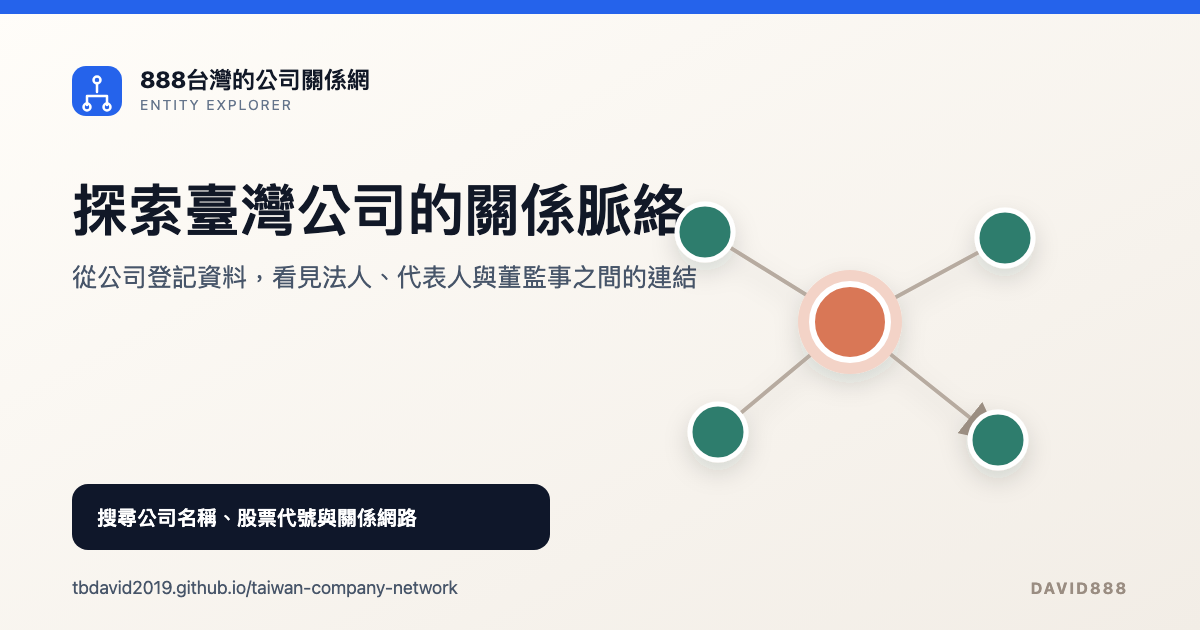
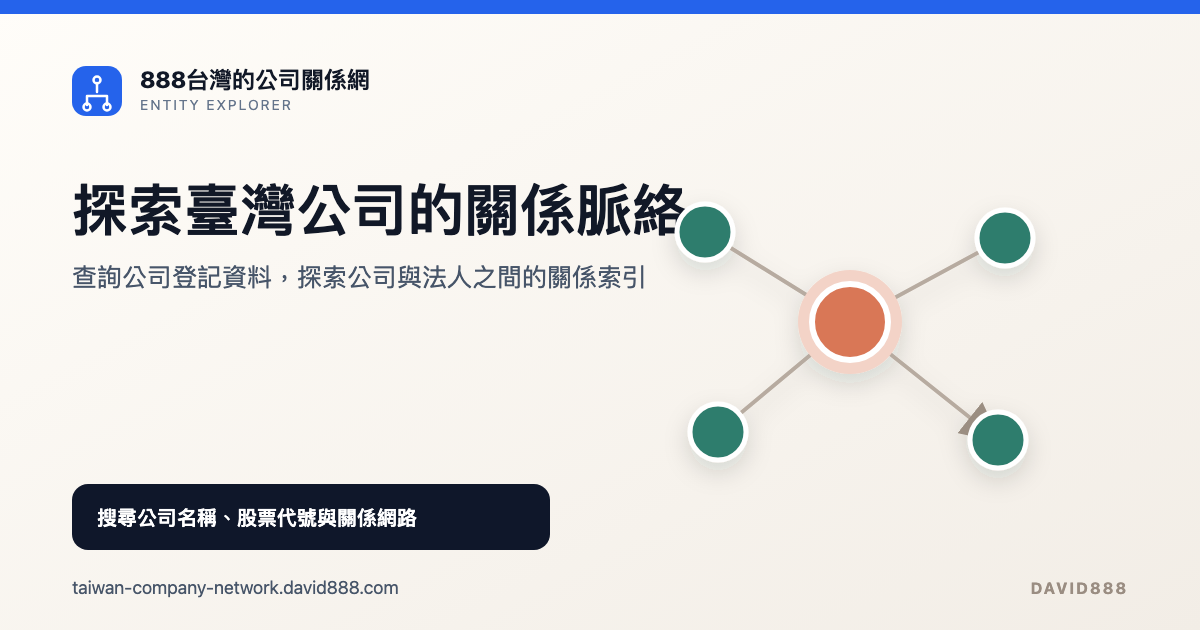
feat: add graph image sharing

Changed region(s): [[0.0617, 0.4222, 0.5858, 0.4825], [0.0617, 0.9048, 0.37, 0.9651]]

diff --git a/src/views/graph.jsx b/src/views/graph.jsx
@@ -1,5 +1,6 @@
 import React, { useCallback, useEffect, useMemo, useRef, useState } from "react";
 import { Graph } from "@antv/g6";
+import { toBlob } from "html-to-image";
 import { useLocation, useNavigate, useSearchParams } from "react-router-dom";
 import {
   ArrowDownLeft,
@@ -13,6 +14,7 @@ import {
   Network,
   Plus,
   RefreshCw,
+  Share2,
   UserRound,
 } from "lucide-react";
 
@@ -22,6 +24,7 @@ import { Button } from "@/components/ui/button";
 import { Card, CardContent, CardHeader, CardTitle } from "@/components/ui/card";
 import { Separator } from "@/components/ui/separator";
 import { loadCompanyDetails, loadGraph } from "@/lib/companyData";
+import { graphShareFileName } from "@/lib/graphShare";
 import { calculatePinchViewport, clampZoom, companyPageTitle } from "@/lib/graphViewport";
 import { useCompany } from "context/CompanyContext";
 
@@ -364,6 +367,8 @@ function NetworkGraph() {
   const [searchParams] = useSearchParams();
   const { rememberCompany, setCompanyDetails, setSelectedCompany } = useCompany();
   const graphContainerRef = useRef(null);
+  const graphShareRef = useRef(null);
+  const preparedShareRef = useRef(null);
   const graphRef = useRef(null);
   const [network, setNetwork] = useState({});
   const [details, setDetails] = useState({});
@@ -375,6 +380,8 @@ function NetworkGraph() {
   const [localZoom, setLocalZoom] = useState(1);
   const [localMapResetKey, setLocalMapResetKey] = useState(0);
   const [isLoading, setIsLoading] = useState(true);
+  const [isSharing, setIsSharing] = useState(false);
+  const [shareMessage, setShareMessage] = useState("");
   const [error, setError] = useState("");
   const requestedCompany = searchParams.get("company") || location.state?.company;
 
@@ -403,6 +410,8 @@ function NetworkGraph() {
     setExpandedNodes(new Set());
     setLocalZoom(1);
     setActiveNode("");
+    preparedShareRef.current = null;
+    setShareMessage("");
   }, [company, mode]);
 
   useEffect(() => {
@@ -420,6 +429,12 @@ function NetworkGraph() {
     () => makeGraphData(network, company, mode, details, expandedNodes),
     [company, details, expandedNodes, mode, network],
   );
+
+  useEffect(() => {
+    preparedShareRef.current = null;
+    setShareMessage("");
+  }, [graphData]);
+
   const currentView = VIEW_OPTIONS.find((option) => option.id === mode);
   const useLocalRelationshipMap = graphData.nodes.length <= 80;
   const toggleExpandedNode = useCallback((id) => {
@@ -531,15 +546,86 @@ function NetworkGraph() {
     requestAnimationFrame(() => graphRef.current?.fitView({ padding: 72 }, { duration: 220 }));
   };
 
+  const downloadGraphImage = (blob) => {
+    const imageUrl = URL.createObjectURL(blob);
+    const link = document.createElement("a");
+    link.href = imageUrl;
+    link.download = graphShareFileName(company);
+    document.body.appendChild(link);
+    link.click();
+    link.remove();
+    URL.revokeObjectURL(imageUrl);
+    setShareMessage("關係圖 PNG 已下載。");
+  };
+
+  const sharePreparedImage = async ({ blob, file }) => {
+    const shareData = {
+      files: [file],
+      title: `${company} - 888台灣的公司關係網`,
+      text: `${company} 的公司與法人關係索引\n${window.location.href}`,
+    };
+
+    if (navigator.share && navigator.canShare?.({ files: [file] })) {
+      await navigator.share(shareData);
+      setShareMessage("已開啟系統分享選單。");
+      return;
+    }
+
+    downloadGraphImage(blob);
+  };
+
+  const shareGraph = async () => {
+    if (isSharing) return;
+    setShareMessage("");
+
+    if (preparedShareRef.current) {
+      try {
+        await sharePreparedImage(preparedShareRef.current);
+      } catch (shareError) {
+        if (shareError?.name !== "AbortError") setShareMessage("分享未開啟；請再按一次分享，或改用下載的 PNG。");
+      }
+      return;
+    }
+
+    if (!graphShareRef.current) return;
+    setIsSharing(true);
+    setHoveredNode("");
+
+    try {
+      await document.fonts?.ready;
+      const blob = await toBlob(graphShareRef.current, {
+        backgroundColor: "#faf8f5",
+        cacheBust: true,
+        filter: (node) => node?.dataset?.shareExclude !== "true",
+        pixelRatio: Math.min(2, Math.max(1.5, window.devicePixelRatio || 1)),
+      });
+      if (!blob) throw new Error("Unable to create graph image.");
+
+      const file = new File([blob], graphShareFileName(company), { type: "image/png" });
+      preparedShareRef.current = { blob, file };
+      await sharePreparedImage({ blob, file });
+    } catch (shareError) {
+      if (shareError?.name === "AbortError") return;
+      if (preparedShareRef.current && shareError?.name === "NotAllowedError") {
+        setShareMessage("圖片已產生，請再按一次「分享圖片」開啟系統分享選單。");
+      } else {
+        setShareMessage("無法產生分享圖片，請稍後再試。");
+      }
+    } finally {
+      setIsSharing(false);
+    }
+  };
+
   if (isLoading) return <div className="flex min-h-[70vh] flex-col items-center justify-center gap-3 text-muted-foreground"><LoaderCircle className="size-8 animate-spin text-primary" /><p className="text-sm">Loading relationship data…</p></div>;
   if (error) return <div className="rounded-xl border border-destructive/20 bg-destructive/5 p-6 text-sm text-destructive">{error}</div>;
 
   return (
     <div className="fade-in">
-      <Header actions={<Button onClick={() => navigate("/index")} variant="outline"><ArrowLeft />Back to index</Button>} title={company || "Relationship graph"} />
+      <Header actions={<div className="flex flex-wrap gap-2"><Button onClick={() => navigate("/index")} variant="outline"><ArrowLeft />Back to index</Button><Button disabled={isSharing} onClick={shareGraph}><Share2 />{isSharing ? "產生圖片…" : preparedShareRef.current ? "分享圖片" : "分享"}</Button></div>} title={company || "Relationship graph"} />
+      {shareMessage && <p aria-live="polite" className="mb-3 text-right text-xs text-muted-foreground">{shareMessage}</p>}
       <div className="grid gap-5 xl:grid-cols-[minmax(0,1fr)_20rem]">
-        <Card className="min-w-0 overflow-hidden">
-          <CardHeader className="border-b border-border/70 bg-muted/20 px-5 py-4 sm:px-6"><div className="mb-4 flex flex-wrap gap-2">{VIEW_OPTIONS.map((option) => { const Icon = option.icon; const active = option.id === mode; return <Button className="gap-2" key={option.id} onClick={() => setMode(option.id)} size="sm" variant={active ? "default" : "outline"}><Icon className="size-3.5" />{option.label}</Button>; })}</div><div className="flex flex-wrap items-center justify-between gap-3"><div><CardTitle className="flex items-center gap-2 text-base"><Network className="size-4 text-primary" />{currentView?.label}</CardTitle><p className="mt-1 text-xs text-muted-foreground">{graphData.nodes.length} nodes · {graphData.edges.length} links</p></div><Badge className="hidden sm:inline-flex" variant="outline">{currentView?.hint}</Badge></div></CardHeader>
+        <Card className="min-w-0 overflow-hidden" ref={graphShareRef}>
+          <CardHeader className="border-b border-border/70 bg-muted/20 px-5 py-4 sm:px-6"><div className="mb-4 flex flex-wrap gap-2" data-share-exclude="true">{VIEW_OPTIONS.map((option) => { const Icon = option.icon; const active = option.id === mode; return <Button className="gap-2" key={option.id} onClick={() => setMode(option.id)} size="sm" variant={active ? "default" : "outline"}><Icon className="size-3.5" />{option.label}</Button>; })}</div><div className="flex flex-wrap items-center justify-between gap-3"><div><CardTitle className="flex items-center gap-2 text-base"><Network className="size-4 text-primary" />{company} · {currentView?.label}</CardTitle><p className="mt-1 text-xs text-muted-foreground">{graphData.nodes.length} nodes · {graphData.edges.length} links</p></div><Badge className="hidden sm:inline-flex" variant="outline">{currentView?.hint}</Badge></div></CardHeader>
           <CardContent className="p-0"><div className="relative h-[560px] w-full overflow-hidden bg-[#faf8f5] md:h-[640px]" ref={graphContainerRef}>
             {useLocalRelationshipMap && graphData.edges.length > 0 && (
               <div className="absolute inset-0 z-[1] p-3 sm:p-8">
@@ -562,11 +648,12 @@ function NetworkGraph() {
                 </div>
               </div>
             )}
-            {hoveredNode && <div className="pointer-events-none absolute right-4 top-4 z-10 w-[min(22rem,calc(100%-2rem))] rounded-xl border border-border/80 bg-background/95 p-4 shadow-xl backdrop-blur"><EntityDetails details={details} name={hoveredNode} /></div>}
-            {useLocalRelationshipMap && graphData.edges.length > 0 && <div className="pointer-events-none absolute left-3 top-3 z-10 rounded-md border border-border/70 bg-background/90 px-2 py-1 text-[11px] text-muted-foreground shadow-sm backdrop-blur sm:hidden">拖曳移動 · 雙指縮放</div>}
+            {hoveredNode && <div className="pointer-events-none absolute right-4 top-4 z-10 w-[min(22rem,calc(100%-2rem))] rounded-xl border border-border/80 bg-background/95 p-4 shadow-xl backdrop-blur" data-share-exclude="true"><EntityDetails details={details} name={hoveredNode} /></div>}
+            {useLocalRelationshipMap && graphData.edges.length > 0 && <div className="pointer-events-none absolute left-3 top-3 z-10 rounded-md border border-border/70 bg-background/90 px-2 py-1 text-[11px] text-muted-foreground shadow-sm backdrop-blur sm:hidden" data-share-exclude="true">拖曳移動 · 雙指縮放</div>}
             <div className="absolute bottom-4 left-4 z-10 hidden items-center gap-2 rounded-lg border border-border/70 bg-[#fffdf9]/95 px-3 py-2 text-[11px] text-muted-foreground shadow-sm backdrop-blur sm:flex"><span className="size-2 rounded-full bg-[#d97757]" /> Focus <span className="size-2 rounded-full bg-[#2f7d6d]" /> Company <span className="size-2 rounded-full bg-[#877666]" /> Entity <span>· 拖曳空白處移動畫布、雙指縮放</span> {expandedNodes.size > 0 && <span>· {expandedNodes.size} expanded</span>}</div>
-            <div className="absolute bottom-4 right-4 z-10 flex gap-1 rounded-lg border border-border/70 bg-background/90 p-1 shadow-sm backdrop-blur"><Button aria-label="Zoom out" onClick={() => zoom(0.8)} size="icon" variant="ghost"><Minus /></Button><Button aria-label="Reset graph expansion" onClick={resetGraph} size="icon" variant="ghost"><RefreshCw /></Button><Button aria-label="Zoom in" onClick={() => zoom(1.2)} size="icon" variant="ghost"><Plus /></Button></div>
+            <div className="absolute bottom-4 right-4 z-10 flex gap-1 rounded-lg border border-border/70 bg-background/90 p-1 shadow-sm backdrop-blur" data-share-exclude="true"><Button aria-label="Zoom out" onClick={() => zoom(0.8)} size="icon" variant="ghost"><Minus /></Button><Button aria-label="Reset graph expansion" onClick={resetGraph} size="icon" variant="ghost"><RefreshCw /></Button><Button aria-label="Zoom in" onClick={() => zoom(1.2)} size="icon" variant="ghost"><Plus /></Button></div>
           </div></CardContent>
+          <div className="flex flex-wrap items-center justify-between gap-2 border-t border-border/70 bg-[#fffdf9] px-5 py-3 text-[11px] text-muted-foreground"><span>資料為公司／法人關係索引，不代表已驗證持股、控制或投資關係。</span><span>taiwan-company-network.david888.com</span></div>
         </Card>
         <aside className="space-y-5">
           {activeNode && activeNodeConnections && <Card><CardHeader className="px-5 pb-3 pt-5"><CardTitle className="text-sm">Expanded entity</CardTitle><p className="text-xs leading-5 text-muted-foreground">Entities opened from the node you last clicked.</p></CardHeader><CardContent className="space-y-4 px-5 pb-5"><EntityDetails details={details} name={activeNode} /><Separator /><ExpansionEntityList icon={ArrowDownLeft} label="Upstream entities" names={activeNodeConnections.incoming} tone="text-blue-600" /><ExpansionEntityList icon={ArrowUpRight} label="Downstream entities" names={activeNodeConnections.outgoing} tone="text-teal-700" /></CardContent></Card>}

diff --git a/src/lib/graphShare.test.js b/src/lib/graphShare.test.js
@@ -1,0 +1,22 @@
+import assert from "node:assert/strict";
+import test from "node:test";
+
+import { graphShareFileName } from "./graphShare.js";
+
+test("graphShareFileName uses the selected company", () => {
+  assert.equal(
+    graphShareFileName("聯華實業控股股份有限公司"),
+    "聯華實業控股股份有限公司-公司關係圖.png",
+  );
+});
+
+test("graphShareFileName removes characters that are invalid in filenames", () => {
+  assert.equal(
+    graphShareFileName('測試/公司:「A?」'),
+    "測試-公司-「A-」-公司關係圖.png",
+  );
+});
+
+test("graphShareFileName has a stable fallback", () => {
+  assert.equal(graphShareFileName(""), "888台灣公司關係網-公司關係圖.png");
+});

diff --git a/index.html b/index.html
@@ -11,16 +11,16 @@
     </script>
     <meta charset="UTF-8" />
     <meta name="viewport" content="width=device-width, initial-scale=1.0" />
-    <title>888台灣的公司關係網｜探索公司、法人與董監事關係</title>
-    <meta name="description" content="搜尋臺灣公司登記資料，視覺化探索公司、法人、代表人與董監事之間的關係網路。" />
+    <title>888台灣的公司關係網｜查詢公司登記與法人關係</title>
+    <meta name="description" content="搜尋臺灣公司登記資料，查詢統編、資本額、代表人與地址，並視覺化公司及法人之間的關係索引。" />
     <meta name="robots" content="index, follow, max-image-preview:large" />
     <link rel="canonical" href="https://taiwan-company-network.david888.com/" />
 
     <meta property="og:type" content="website" />
     <meta property="og:site_name" content="888台灣的公司關係網" />
     <meta property="og:locale" content="zh_TW" />
-    <meta property="og:title" content="888台灣的公司關係網｜探索公司、法人與董監事關係" />
-    <meta property="og:description" content="搜尋臺灣公司登記資料，視覺化探索公司、法人、代表人與董監事之間的關係網路。" />
+    <meta property="og:title" content="888台灣的公司關係網｜查詢公司登記與法人關係" />
+    <meta property="og:description" content="搜尋臺灣公司登記資料，查詢統編、資本額、代表人與地址，並視覺化公司及法人之間的關係索引。" />
     <meta property="og:url" content="https://taiwan-company-network.david888.com/" />
     <meta property="og:image" content="https://taiwan-company-network.david888.com/og-image.png" />
     <meta property="og:image:secure_url" content="https://taiwan-company-network.david888.com/og-image.png" />
@@ -30,8 +30,8 @@
     <meta property="og:image:alt" content="888台灣的公司關係網，視覺化探索臺灣公司與法人關係" />
 
     <meta name="twitter:card" content="summary_large_image" />
-    <meta name="twitter:title" content="888台灣的公司關係網｜探索公司、法人與董監事關係" />
-    <meta name="twitter:description" content="搜尋臺灣公司登記資料，視覺化探索公司、法人、代表人與董監事之間的關係網路。" />
+    <meta name="twitter:title" content="888台灣的公司關係網｜查詢公司登記與法人關係" />
+    <meta name="twitter:description" content="搜尋臺灣公司登記資料，查詢統編、資本額、代表人與地址，並視覺化公司及法人之間的關係索引。" />
     <meta name="twitter:image" content="https://taiwan-company-network.david888.com/og-image.png" />
     <meta name="twitter:image:alt" content="888台灣的公司關係網，視覺化探索臺灣公司與法人關係" />
 
@@ -48,7 +48,7 @@
         "name": "888台灣的公司關係網",
         "alternateName": "Taiwan Company Network",
         "url": "https://taiwan-company-network.david888.com/",
-        "description": "搜尋臺灣公司登記資料，視覺化探索公司、法人、代表人與董監事之間的關係網路。",
+        "description": "搜尋臺灣公司登記資料，查詢統編、資本額、代表人與地址，並視覺化公司及法人之間的關係索引。",
         "inLanguage": "zh-Hant-TW",
         "image": "https://taiwan-company-network.david888.com/og-image.png"
       }
@@ -59,7 +59,7 @@
     <div id="root">
       <main>
         <h1>888台灣的公司關係網</h1>
-        <p>搜尋臺灣公司登記資料，視覺化探索公司、法人、代表人與董監事之間的關係網路。</p>
+        <p>搜尋臺灣公司登記資料，查詢統編、資本額、代表人與地址，並視覺化公司及法人之間的關係索引。</p>
       </main>
     </div>
     <script type="module" src="/src/index.jsx"></script>

diff --git a/src/lib/graphShare.js b/src/lib/graphShare.js
@@ -1,0 +1,10 @@
+export function graphShareFileName(company) {
+  const safeCompany = String(company || "")
+    .normalize("NFKC")
+    .replace(/[\\/:*?"<>|]/g, "-")
+    .replace(/\s+/g, " ")
+    .trim()
+    .slice(0, 80);
+
+  return `${safeCompany || "888台灣公司關係網"}-公司關係圖.png`;
+}

diff --git a/CHANGELOG.md b/CHANGELOG.md
@@ -19,6 +19,9 @@ All notable changes to this project are documented in this file.
 - Fixed the custom-domain deployment to build from `/`, restoring React assets, company routes, Skill URLs, and API URLs on `taiwan-company-network.david888.com`.
 - Added a single-pass 404 route repair for legacy project-path and corrupted `~and~` graph URLs.
 - Added bilingual AI-agent installation instructions with required files, public API verification, GET-only constraints, and explicit completion criteria.
+- Corrected page titles, descriptions, structured data, and social-preview copy so they describe company registration fields and company/legal-entity relationship indexes without claiming director relationship exploration.
+- Added PNG graph sharing: supported mobile browsers open the system share sheet; other browsers download the generated image.
+- Added a data-semantics notice to graph cards and exported images to avoid implying verified ownership, control, or investment relationships.
 
 ## 2026-07-19
 